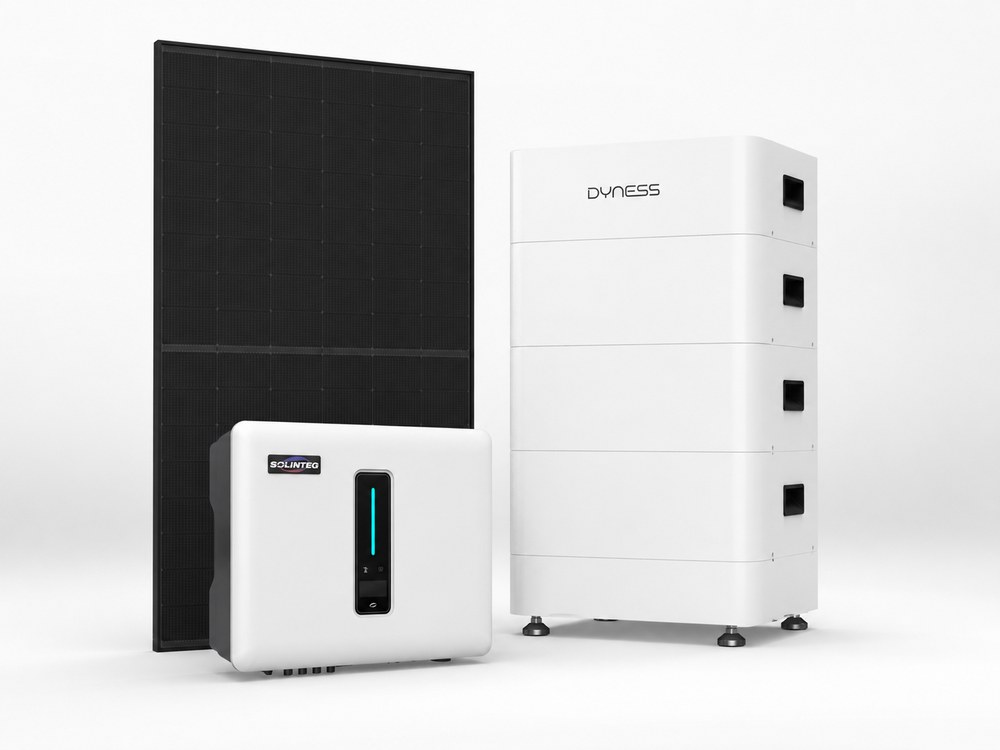
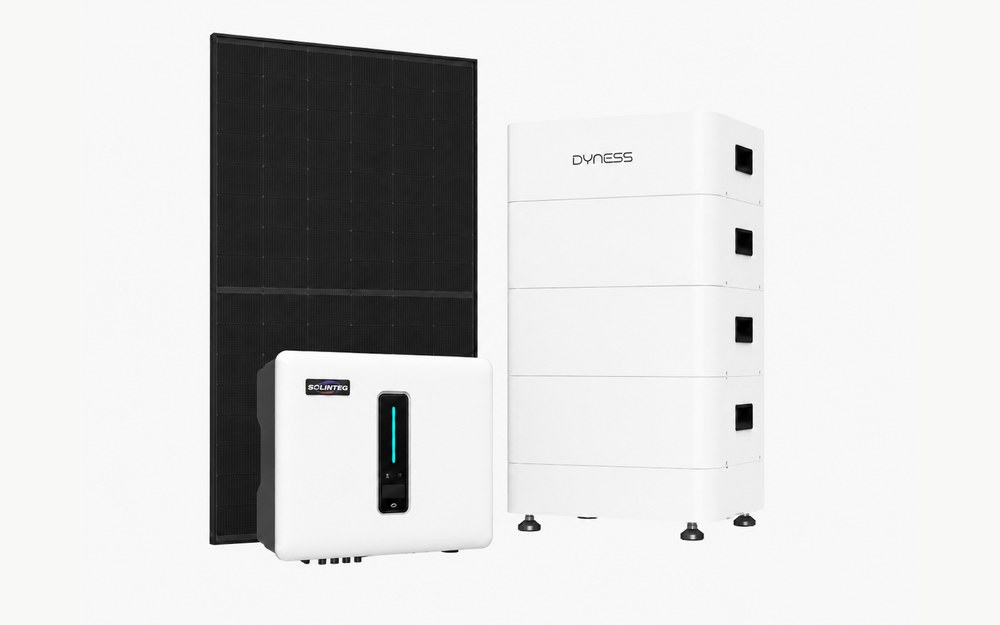
Verze sestavy s baterií bez stínu + sjednocený poměr obrázků
- sestava-fve-baterie nahrazena verzí bez stínu na podlaze
- oba obrázky dopočítány na poměr 16:10 (1000x625), tedy přesně na
  poměr rámečku .tier-photo. Podklad po stranách je dokreslený barvou
  okraje daného obrázku — Start má 252, verze s baterií 248, takže
  jednotné CSS pozadí (250) by u jedné karty dělalo světlejší a u druhé
  tmavší šev
- 1,1-1,3 MB PNG → 31 a 36 kB progresivní JPEG

diff --git a/README.md b/README.md
@@ -210,7 +210,9 @@ Každá má nad hlavičkou kompozici z produktových fotek v rámečku
 `.tier-photo` (poměr 16:10, `object-fit: contain`):
 `assets/sestava-fve.jpg` (panel + střídač) u varianty Start,
 `assets/sestava-fve-baterie.jpg` (panel + střídač + baterie) u Optimal
-a Max. Pozadí rámečku je `#FAFAFA`, aby splynulo s pozadím renderů. Výkon v hlavičce (`.tier-spec`) má žlutý rámeček.
+a Max. Obrázky jsou v poměru **16:10 (1000×625)**, stejném jako rámeček —
+podklad po stranách je dokreslený přímo v obrázku barvou jeho okraje, takže
+nevzniká šev. Při výměně obrázku ten poměr dodržet. Výkon v hlavičce (`.tier-spec`) má žlutý rámeček.
 Výkon je i v hlavičce karty (`.tier-spec`), aby ho zákazník viděl bez čtení
 odrážek. Doplňky mimo cenu (baterie k Základu za 69 tis., wallbox od 19 tis.)
 mají odrážku `li.plus` se žlutým plusem. K tomu **79 tis. Kč**
